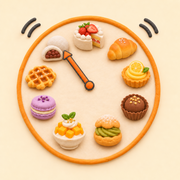
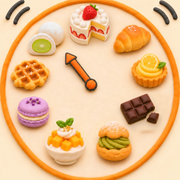
파비콘·홈 화면·큰 아이콘을 새 클레이 시계 그림(32·180·512px)으로 교체

diff --git a/index.html b/index.html
@@ -5,8 +5,9 @@
 <meta name="viewport" content="width=device-width, initial-scale=1">
 <meta name="theme-color" content="#ffd400">
 <title>디저트 타이밍</title>
-<link rel="icon" type="image/png" href="img/brand/favicon.png?v=2">
-<link rel="apple-touch-icon" href="img/brand/apple-touch-icon.png?v=3">
+<link rel="icon" type="image/png" sizes="32x32" href="img/brand/favicon.png?v=4">
+<link rel="icon" type="image/png" sizes="512x512" href="img/brand/icon-512.png?v=4">
+<link rel="apple-touch-icon" sizes="180x180" href="img/brand/apple-touch-icon.png?v=4">
 <meta name="description" content="네이버 10년치 검색량으로 본 디저트 수명주기와 출시 타이밍">
 <meta property="og:type" content="website">
 <meta property="og:site_name" content="디저트 타이밍">

diff --git a/src/head.html b/src/head.html
@@ -5,8 +5,9 @@
 <meta name="viewport" content="width=device-width, initial-scale=1">
 <meta name="theme-color" content="#ffd400">
 <title>디저트 타이밍</title>
-<link rel="icon" type="image/png" href="img/brand/favicon.png?v=2">
-<link rel="apple-touch-icon" href="img/brand/apple-touch-icon.png?v=3">
+<link rel="icon" type="image/png" sizes="32x32" href="img/brand/favicon.png?v=4">
+<link rel="icon" type="image/png" sizes="512x512" href="img/brand/icon-512.png?v=4">
+<link rel="apple-touch-icon" sizes="180x180" href="img/brand/apple-touch-icon.png?v=4">
 <meta name="description" content="네이버 10년치 검색량으로 본 디저트 수명주기와 출시 타이밍">
 <meta property="og:type" content="website">
 <meta property="og:site_name" content="디저트 타이밍">

diff --git a/privacy.html b/privacy.html
@@ -4,7 +4,7 @@
 <meta charset="utf-8">
 <meta name="viewport" content="width=device-width, initial-scale=1">
 <title>개인정보 처리방침 · 디저트 타이밍</title>
-<link rel="icon" href="img/brand/favicon.png?v=2">
+<link rel="icon" href="img/brand/favicon.png?v=4">
 <link href="https://fonts.googleapis.com/css2?family=Black+Han+Sans&family=Noto+Sans+KR:wght@400;700&display=swap" rel="stylesheet">
 <style>
 :root{--y:#ffd400;--ink:#1c1c1c;--ink2:#555;--bg:#fff8dc}

diff --git a/guide.html b/guide.html
@@ -4,7 +4,7 @@
 <meta charset="utf-8">
 <meta name="viewport" content="width=device-width, initial-scale=1">
 <title>사용법 · 디저트 타이밍</title>
-<link rel="icon" href="img/brand/favicon.png?v=2">
+<link rel="icon" href="img/brand/favicon.png?v=4">
 <link href="https://fonts.googleapis.com/css2?family=Black+Han+Sans&family=Noto+Sans+KR:wght@400;700&display=swap" rel="stylesheet">
 <style>
 :root{--y:#ffd400;--o:#ff5a1f;--ink:#1c1c1c;--ink2:#555;--bg:#fff8dc}
